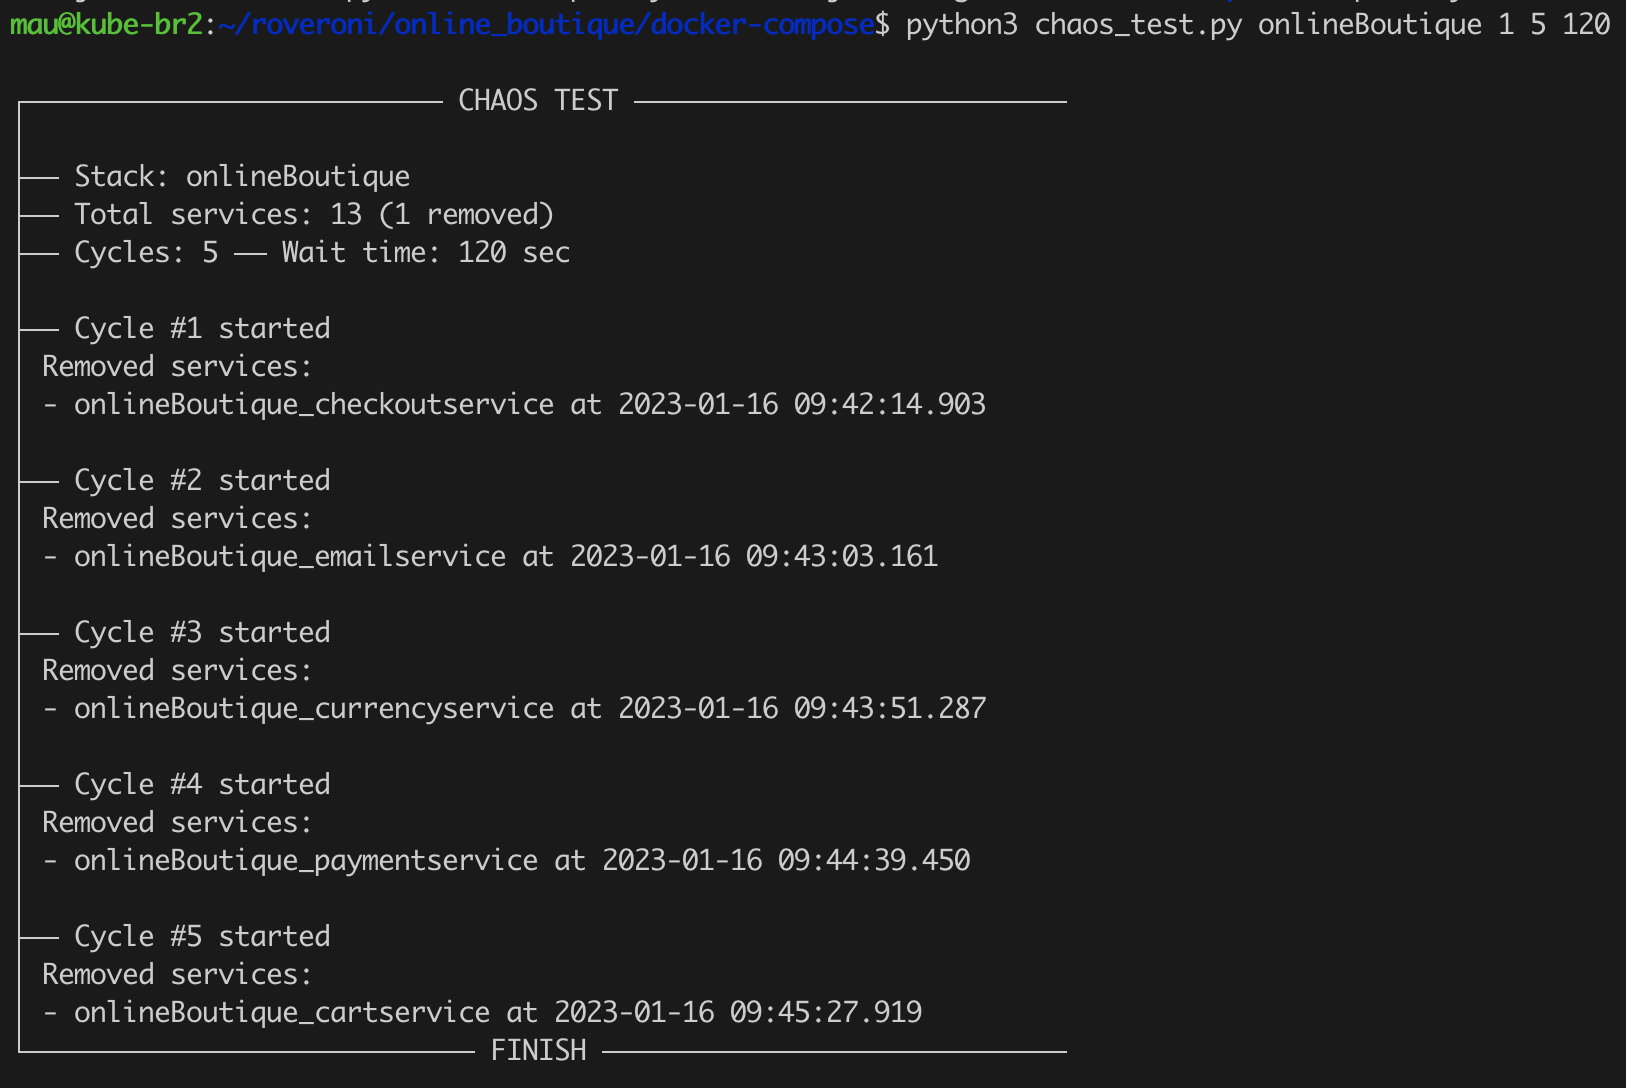
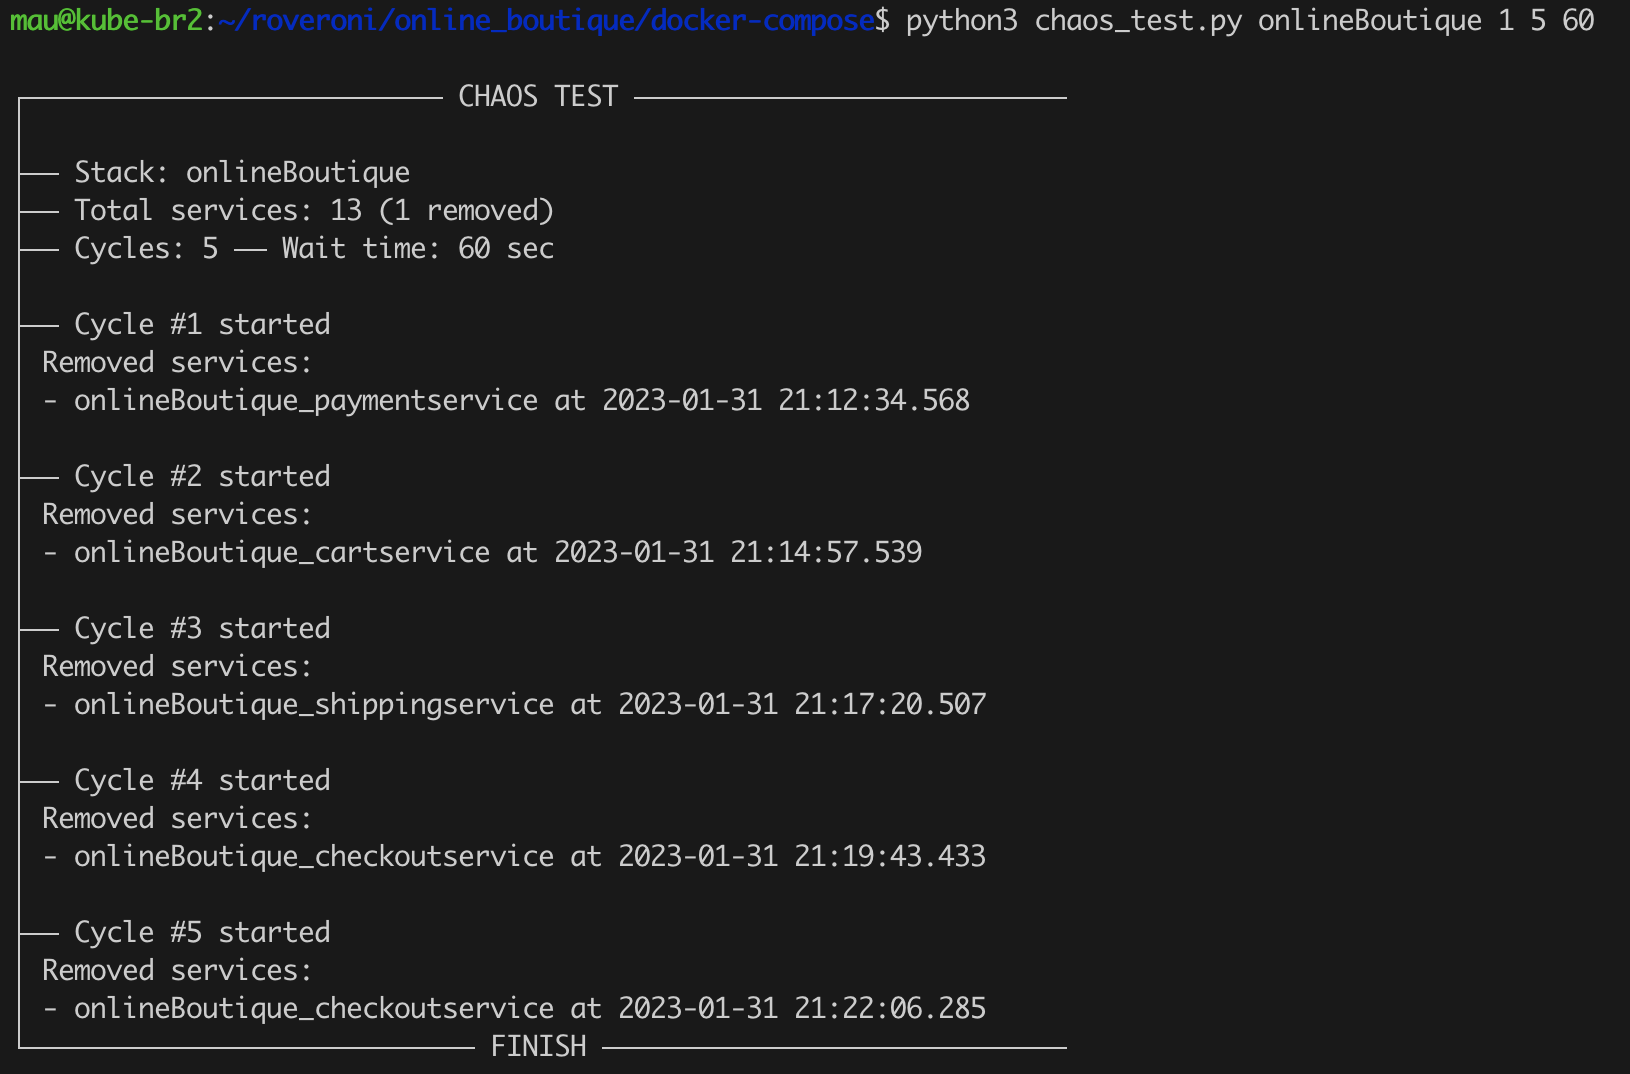
Added choas results and minor fix

diff --git a/analyze_log.py b/analyze_log.py
@@ -12,7 +12,7 @@ explanations = []
 removed_services = {}
 services = ['adservice', 'cartservice', 'checkoutservice', 'currencyservice', 'emailservice', 'paymentservice', 'productcatalogservice', 'recommendationservice', 'shippingservice', 'redis-cart']
 
-folder_path = 'tests/chaos/test1/'
+folder_path = 'tests/chaos/test3/'
 
 # Parse log file and extract error logs only
 def prepare():
@@ -189,8 +189,8 @@ def visualize():
     output_line += 'Errors with correct root causes: ' + str(errors_correct_rootcause) + '\n'
     output_line += 'Correct root causes: ' + str(correct_root_causes) + '\n'
     output_line += 'Average number of explanations per error: ' + str(round(avg_explanations, 2)) + '\n'
-    output_line += 'yRCA Precision 1 (correct root causes / root causes found): ' + str(round(precision1, 2) * 100) + '%\n'
-    output_line += 'yRCA precision 2 (errors with correct root causes / total errors): ' + str(round(precision2, 2) * 100) + '%\n'
+    output_line += 'yRCA Root Cause Precision (correct root causes / root causes found): ' + str(round(precision1, 2) * 100) + '%\n'
+    output_line += 'yRCA Errors Precision (errors with correct root causes / total errors): ' + str(round(precision2, 2) * 100) + '%\n'
 
     output.write(output_line)
     output.close()
